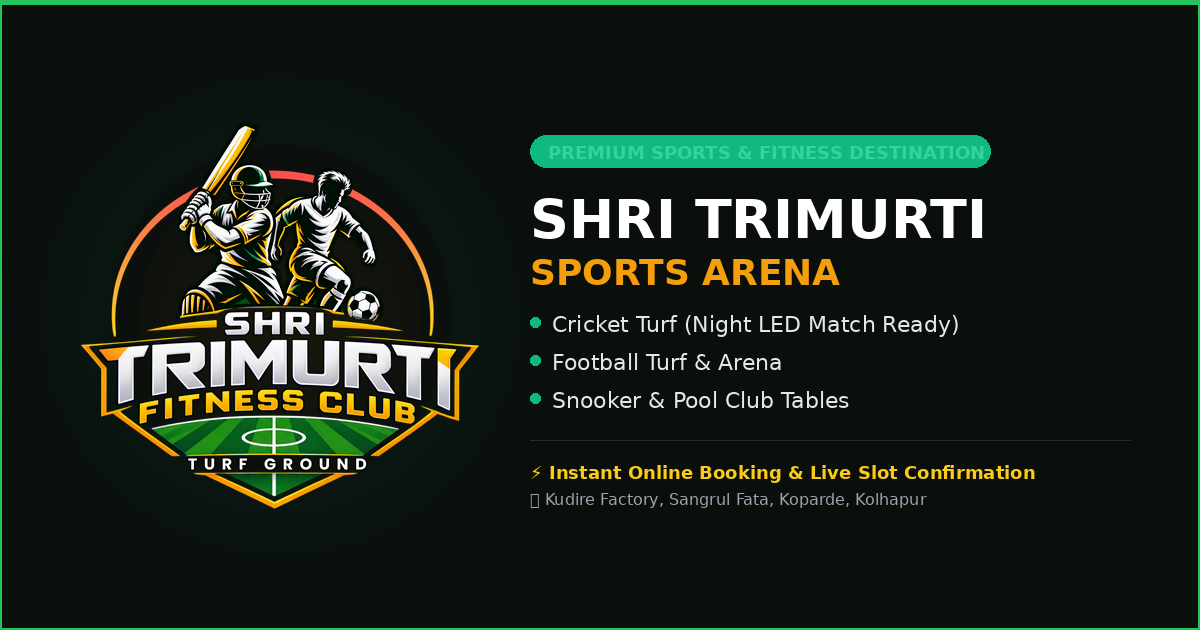
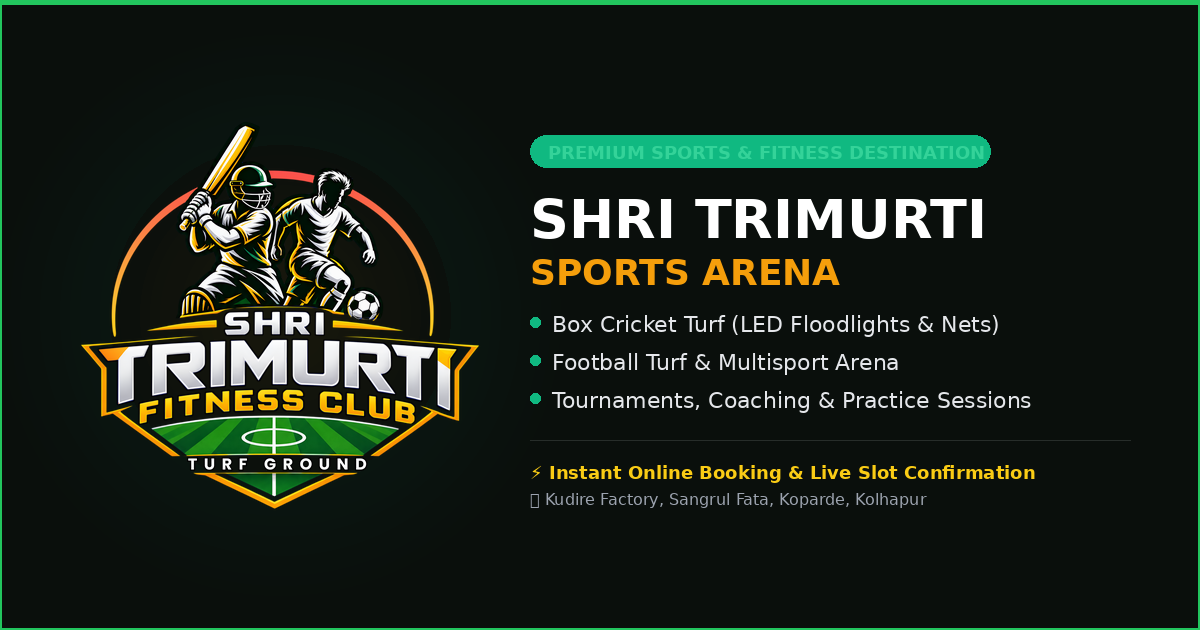
fix(branding): remove snooker and pool references; update OG card and assets to focus on cricket and football turfs

Changed region(s): [[0.4625, 0.4825, 0.8633, 0.6635]]

diff --git a/frontend/index.html b/frontend/index.html
@@ -4,9 +4,9 @@
 <head>
   <meta charset="UTF-8" />
   <meta name="viewport" content="width=device-width, initial-scale=1.0" />
-  <title>Shri Trimurti Sports Arena - Cricket Turf, Football Turf, Snooker & Pool</title>
+  <title>Shri Trimurti Sports Arena - Box Cricket & Football Turf</title>
   <meta name="description"
-    content="Book cricket turf, snooker tables & pool at Shri Trimurti Sports Arena. Premium sports arena with online booking, instant confirmation." />
+    content="Book box cricket turf & football turf at Shri Trimurti Sports Arena. Premium sports arena with online booking, night floodlights, and instant confirmation." />
   <meta name="author" content="Shri Trimurti Sports Arena" />
   <link rel="icon" type="image/x-icon" href="/favicon.ico" />
   <link rel="icon" type="image/png" sizes="32x32" href="/favicon-32x32.png" />
@@ -17,9 +17,9 @@
   <meta property="og:type" content="website" />
   <meta property="og:url" content="https://shri-trimurti-fitness-club.vercel.app/" />
   <meta property="og:site_name" content="Shri Trimurti Sports Arena" />
-  <meta property="og:title" content="Shri Trimurti Sports Arena - Cricket Turf, Football, Snooker & Pool" />
+  <meta property="og:title" content="Shri Trimurti Sports Arena - Box Cricket & Football Turf" />
   <meta property="og:description"
-    content="Book cricket turf, football turf & snooker tables online at Shri Trimurti Sports Arena. Instant booking confirmation & live slot availability." />
+    content="Book box cricket turf & football turf online at Shri Trimurti Sports Arena. Instant booking confirmation & live slot availability." />
   <meta property="og:image" content="https://shri-trimurti-fitness-club.vercel.app/og-image.png" />
   <meta property="og:image:secure_url" content="https://shri-trimurti-fitness-club.vercel.app/og-image.png" />
   <meta property="og:image:type" content="image/png" />
@@ -29,9 +29,9 @@
 
   <!-- Twitter / X -->
   <meta name="twitter:card" content="summary_large_image" />
-  <meta name="twitter:title" content="Shri Trimurti Sports Arena - Cricket Turf, Football, Snooker & Pool" />
+  <meta name="twitter:title" content="Shri Trimurti Sports Arena - Box Cricket & Football Turf" />
   <meta name="twitter:description"
-    content="Book cricket turf, football turf & snooker tables online at Shri Trimurti Sports Arena. Instant booking confirmation." />
+    content="Book box cricket turf & football turf online at Shri Trimurti Sports Arena. Instant booking confirmation." />
   <meta name="twitter:image" content="https://shri-trimurti-fitness-club.vercel.app/og-image.png" />
   <meta name="theme-color" content="#0a0a0a" />
   <meta name="apple-mobile-web-app-capable" content="yes">

diff --git a/frontend/src/lib/mock-data.ts b/frontend/src/lib/mock-data.ts
@@ -35,8 +35,7 @@ export interface Booking {
 /** Static fallback map for known types */
 const knownLabels: Record<string, string> = {
   cricket: "Cricket Turf",
-  snooker: "Snooker Table",
-  pool: "Pool Table",
+  football: "Football Turf",
 };
 
 /** Dynamic label resolver - uses known map or capitalizes the raw type */
@@ -57,13 +56,13 @@ export const facilityLabels: Record<string, string> = new Proxy(knownLabels, {
 
 
 export const revenueData = [
-  { name: "Mon", cricket: 12400, snooker: 3200, pool: 2400 },
-  { name: "Tue", cricket: 9800, snooker: 2800, pool: 1800 },
-  { name: "Wed", cricket: 11200, snooker: 3400, pool: 2200 },
-  { name: "Thu", cricket: 13600, snooker: 3000, pool: 2600 },
-  { name: "Fri", cricket: 18200, snooker: 4800, pool: 3600 },
-  { name: "Sat", cricket: 24400, snooker: 5600, pool: 4200 },
-  { name: "Sun", cricket: 21800, snooker: 5200, pool: 3800 },
+  { name: "Mon", cricket: 12400, football: 8200 },
+  { name: "Tue", cricket: 9800, football: 7400 },
+  { name: "Wed", cricket: 11200, football: 8900 },
+  { name: "Thu", cricket: 13600, football: 9500 },
+  { name: "Fri", cricket: 18200, football: 14000 },
+  { name: "Sat", cricket: 24400, football: 19800 },
+  { name: "Sun", cricket: 21800, football: 17600 },
 ];
 
 export const peakHoursData = [

diff --git a/frontend/src/components/landing/FooterSection.tsx b/frontend/src/components/landing/FooterSection.tsx
@@ -63,7 +63,7 @@ export default function FooterSection() {
               </span>
             </div>
             <p className="text-sm text-muted-foreground leading-relaxed mb-4">
-              Premium sports arena with cricket turf, snooker & pool. Book online, show up, and play.
+              Premium sports arena with box cricket turf & football arena. Book online, show up, and play.
             </p>
             {socials.length > 0 && (
               <div className="flex items-center gap-2">
@@ -102,7 +102,7 @@ export default function FooterSection() {
           <div className="col-span-1">
             <h4 className="font-heading font-semibold text-foreground mb-4">Our Sports</h4>
             <ul className="space-y-2">
-              {["Cricket Nets", "Snooker Tables", "Pool Tables", "Tournaments"].map((s) => (
+              {["Box Cricket Turf", "Football Arena", "Practice Nets", "Tournaments"].map((s) => (
                 <li key={s} className="text-sm text-muted-foreground">{s}</li>
               ))}
             </ul>

diff --git a/frontend/src/components/landing/FeaturesSection.tsx b/frontend/src/components/landing/FeaturesSection.tsx
@@ -5,7 +5,7 @@ const features = [
   { icon: Lightbulb, title: "LED Lighting", desc: "Professional-grade lighting across all facilities for day and night sessions." },
   { icon: Car, title: "Free Parking", desc: "Spacious parking area for 40+ vehicles right at the arena entrance." },
   { icon: Shield, title: "Safety Nets", desc: "Full perimeter netting on cricket turf for player safety." },
-  { icon: Wind, title: "AC Lounge", desc: "Climate-controlled snooker & pool area for maximum comfort." },
+  { icon: Wind, title: "Player Dugout & Lounge", desc: "Comfortable covered dugout and seating lounge for teams and spectators." },
   { icon: Coffee, title: "Café & Refreshments", desc: "On-site café with snacks, beverages, and energy drinks." },
   { icon: Shirt, title: "Changing Rooms", desc: "Clean changing rooms with lockers, showers, and fresh towels." },
   { icon: Wifi, title: "Free Wi-Fi", desc: "High-speed connectivity throughout the entire arena." },

diff --git a/frontend/src/pages/BookingPage.tsx b/frontend/src/pages/BookingPage.tsx
@@ -16,8 +16,7 @@ import Navbar from "@/components/Navbar";
 import FooterSection from "@/components/landing/FooterSection";
 import { toast } from "sonner";
 import cricketImg from "@/assets/cricket-turf.jpg";
-import snookerImg from "@/assets/snooker-room.jpg";
-import poolImg from "@/assets/pool-room.jpg";
+import footballImg from "@/assets/football-turf.jpg";
 import { QRCodeSVG } from "qrcode.react";
 import { toPng } from "html-to-image";
 import { Download, Share2, MessageSquare } from "lucide-react";
@@ -27,8 +26,7 @@ import confetti from "canvas-confetti";
 /** Fallback images for known sport types */
 const knownImages: Record<string, string> = {
   cricket: cricketImg,
-  snooker: snookerImg,
-  pool: poolImg,
+  football: footballImg,
 };
 const defaultImage = "https://images.unsplash.com/photo-1461896836934-bd45ba8bf8bd?q=80&w=2000&auto=format&fit=crop";
 

diff --git a/frontend/src/components/landing/FacilitiesSection.tsx b/frontend/src/components/landing/FacilitiesSection.tsx
@@ -5,16 +5,14 @@ import { ArrowRight } from "lucide-react";
 import { Button } from "@/components/ui/button";
 import api from "@/lib/api";
 import cricketImg from "@/assets/cricket-turf.jpg";
-import snookerImg from "@/assets/snooker-room.jpg";
-import poolImg from "@/assets/pool-room.jpg";
+import footballImg from "@/assets/football-turf.jpg";
 
 import { useSocket } from "@/hooks/useSocket";
 
 /** Fallback images for known sport types */
 const knownImages: Record<string, string> = {
   cricket: cricketImg,
-  snooker: snookerImg,
-  pool: poolImg,
+  football: footballImg,
 };
 
 /** Generic placeholder for unknown sports */

diff --git a/frontend/src/pages/admin/AdminAnalytics.tsx b/frontend/src/pages/admin/AdminAnalytics.tsx
@@ -8,8 +8,7 @@ import { cn } from "@/lib/utils";
 
 const SPORT_COLORS: Record<string, string> = {
   cricket: "hsl(142 76% 36%)",
-  snooker: "hsl(84 80% 55%)",
-  pool: "hsl(200 80% 50%)",
+  football: "hsl(217 91% 60%)",
 };
 
 const tooltipStyle = {
